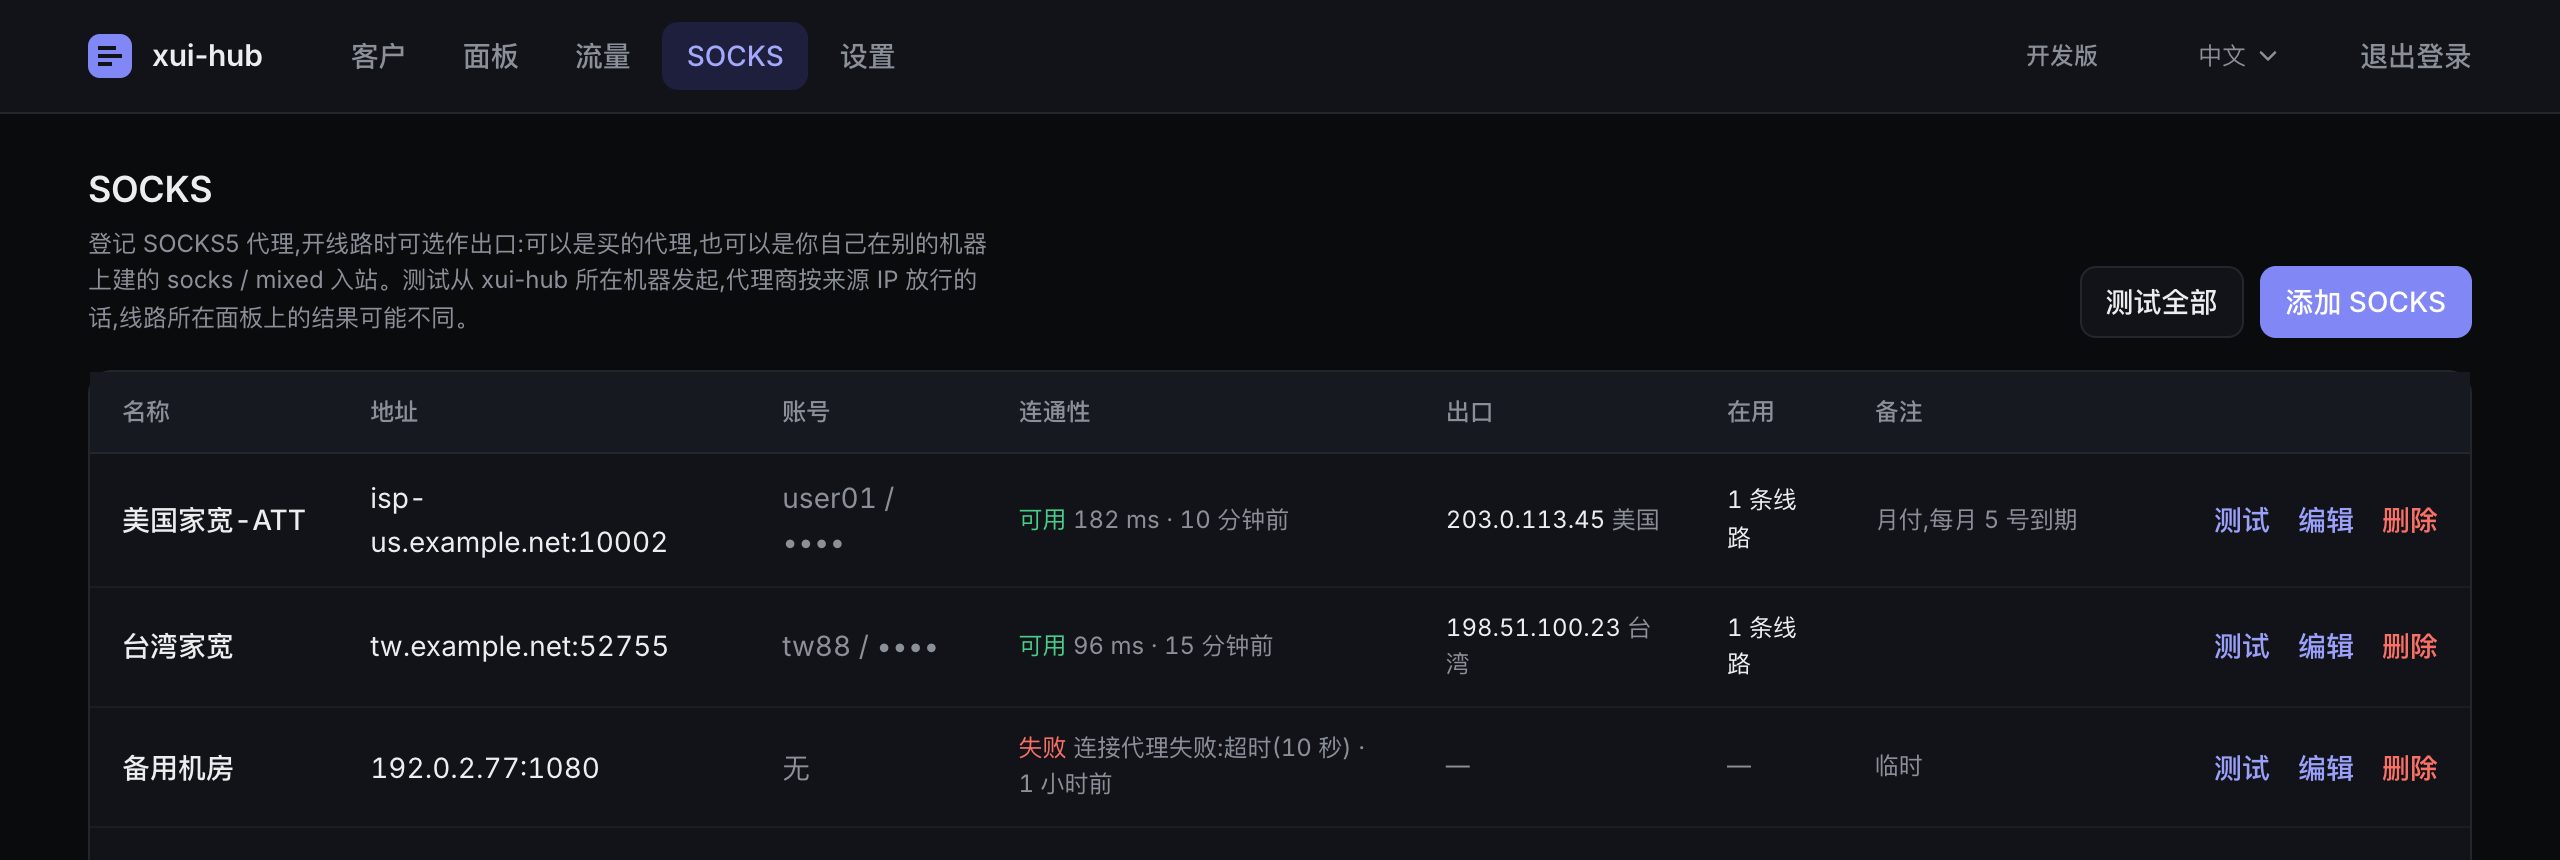
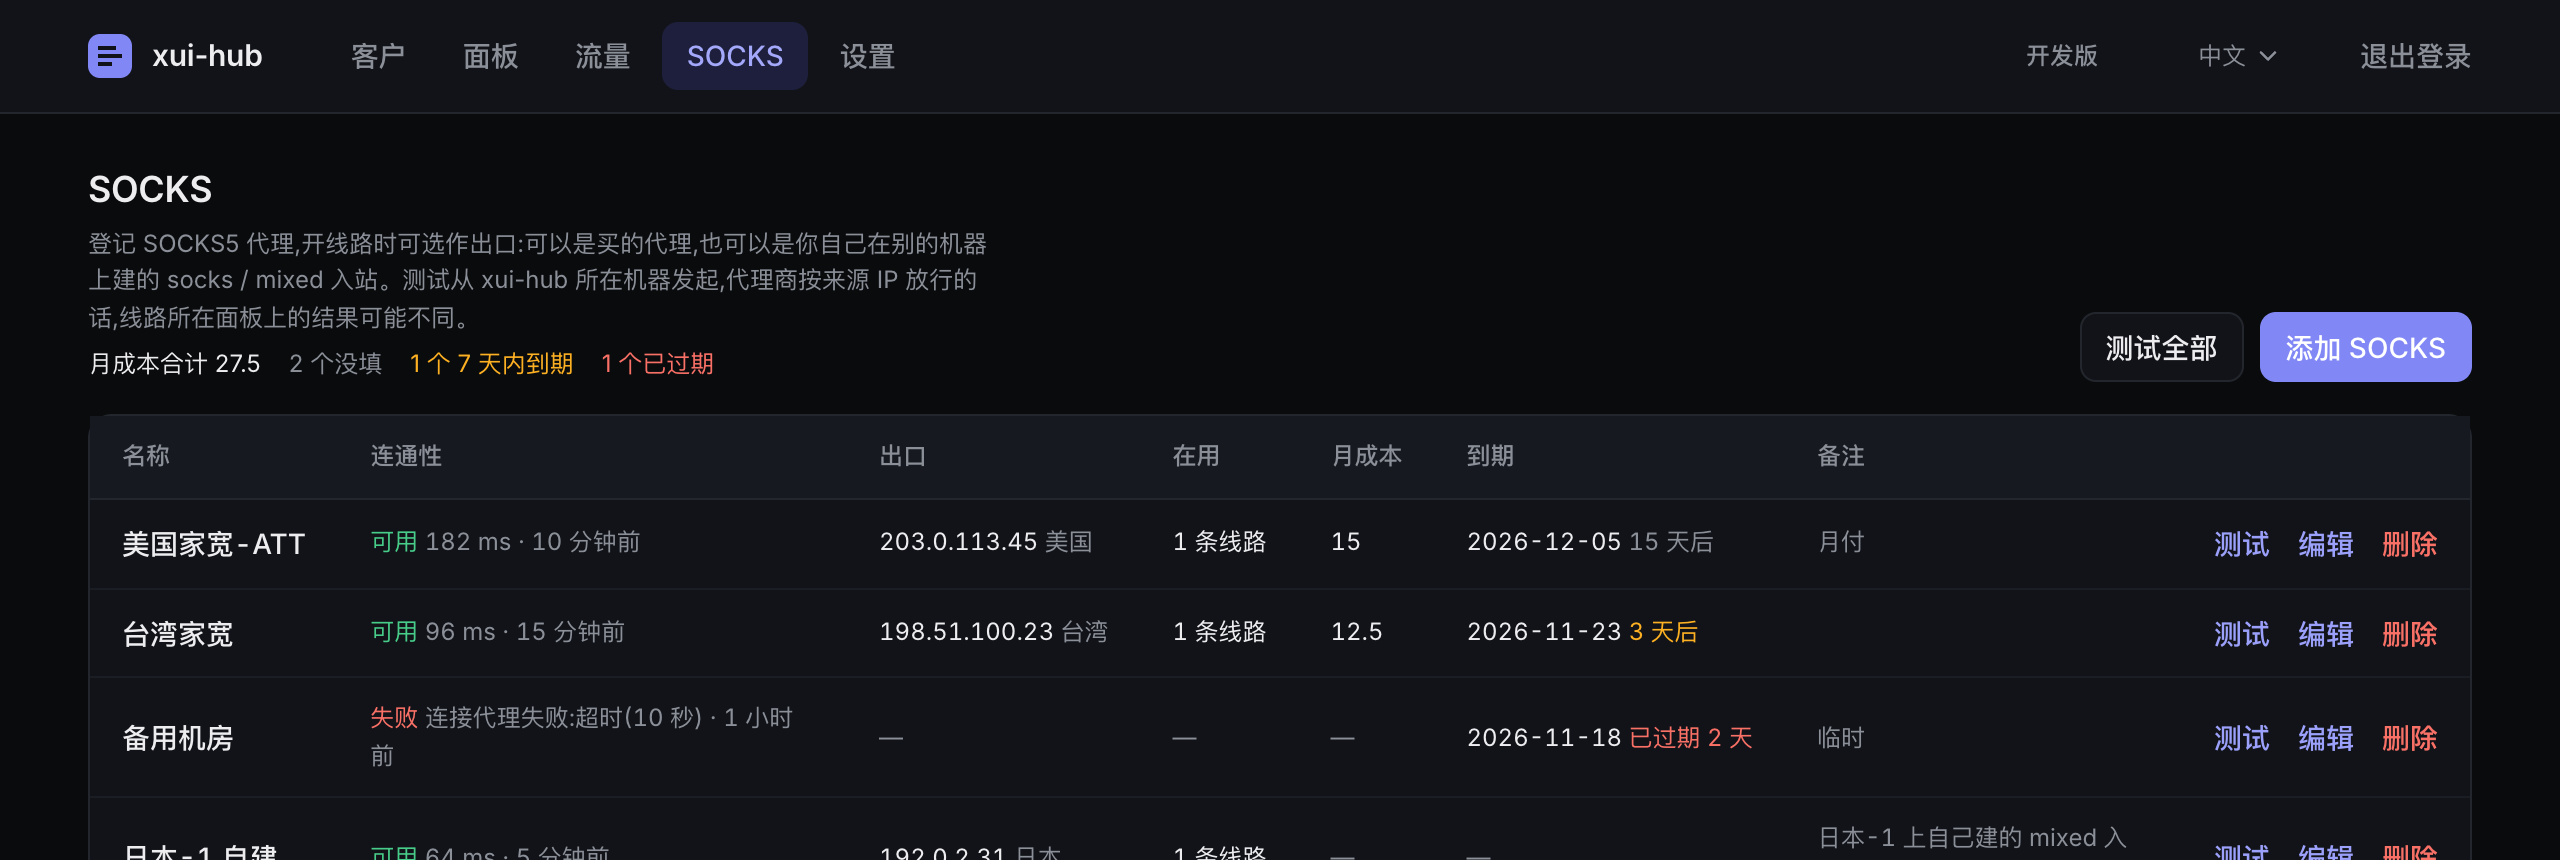
fix: SOCKS 列表去掉地址和账号两列
列表里留名称、连通性、出口、在用、月成本、到期、备注;地址放到名称的悬停提示里,编辑时标题上显示现在的地址。
出口、在用两列不换行。README 截图按新界面重截(演示数据补上月成本和到期)。

diff --git a/web/src/views/Socks.vue b/web/src/views/Socks.vue
@@ -121,8 +121,6 @@ async function remove(s: Socks) {
         <thead>
           <tr>
             <th>{{ t('socks.colName') }}</th>
-            <th>{{ t('socks.colAddress') }}</th>
-            <th>{{ t('socks.colAccount') }}</th>
             <th>{{ t('socks.colCheck') }}</th>
             <th>{{ t('socks.colExit') }}</th>
             <th>{{ t('socks.colUsed') }}</th>
@@ -134,20 +132,18 @@ async function remove(s: Socks) {
         </thead>
         <tbody>
           <tr v-for="s in list" :key="s.id">
-            <td class="name">{{ s.name }}</td>
-            <td class="mono">{{ s.host }}:{{ s.port }}</td>
-            <td class="muted">{{ s.username || t('socks.noAccount') }}<template v-if="s.has_password"> / ••••</template></td>
+            <td class="name" :title="`${s.host}:${s.port}`">{{ s.name }}</td>
             <td class="small">
               <template v-if="checking.has(s.id)"><span class="muted">{{ t('socks.testing') }}</span></template>
               <template v-else-if="!s.check"><span class="muted">{{ t('socks.neverTested') }}</span></template>
               <template v-else-if="s.check.ok"><span class="text-ok">{{ t('socks.ok') }}</span> <span class="muted">{{ s.check.ms }} ms · {{ fmtAgo(s.check.at) }}</span></template>
               <template v-else><span class="text-err" :title="s.check.error ?? ''">{{ t('socks.failed') }}</span> <span class="muted">{{ (s.check.error ?? '').slice(0, 40) }} · {{ fmtAgo(s.check.at) }}</span></template>
             </td>
-            <td class="small">
+            <td class="small nowrap">
               <template v-if="s.check?.ok">{{ s.check.ip }} <span class="muted">{{ region(s.check.loc) }}</span></template>
               <span v-else class="muted">—</span>
             </td>
-            <td class="small"><template v-if="s.used_by">{{ t('socks.usedBy', { n: s.used_by }, s.used_by) }}</template><span v-else class="muted">—</span></td>
+            <td class="small nowrap"><template v-if="s.used_by">{{ t('socks.usedBy', { n: s.used_by }, s.used_by) }}</template><span v-else class="muted">—</span></td>
             <td class="small mono"><template v-if="s.monthly_cost != null">{{ fmtCost(s.monthly_cost) }}</template><span v-else class="muted">—</span></td>
             <td class="small nowrap">
               <template v-if="s.expire_at">{{ fmtDate(s.expire_at) }} <span :class="dueClass(s.expire_at, 'muted')">{{ fmtDue(s.expire_at) }}</span></template>
@@ -172,7 +168,7 @@ async function remove(s: Socks) {
     <form id="socks-form" class="form" @submit.prevent="submit">
       <label class="field">{{ t('socks.name') }}<input v-model="form.name" required :placeholder="t('socks.namePlaceholder')" /></label>
       <label class="field">
-        {{ t('socks.address') }}{{ editing ? t('socks.keepBlank') : '' }}
+        {{ t('socks.address') }}{{ editing ? t('socks.keepBlankCurrent', { addr: `${editing.host}:${editing.port}` }) : '' }}
         <input v-model="form.address" :required="!editing" :placeholder="t('socks.addressPlaceholder')" autocomplete="off" />
       </label>
       <div class="two">

diff --git a/web/src/i18n/zh.ts b/web/src/i18n/zh.ts
@@ -163,13 +163,10 @@ export default {
     testing: '测试中…',
     add: '添加 SOCKS',
     colName: '名称',
-    colAddress: '地址',
-    colAccount: '账号',
     colCheck: '连通性',
     colExit: '出口',
     colUsed: '在用',
     colRemark: '备注',
-    noAccount: '无',
     neverTested: '没测过',
     ok: '可用',
     failed: '失败',
@@ -180,7 +177,7 @@ export default {
     name: '名称',
     namePlaceholder: '如 美国家宽-1',
     address: '地址',
-    keepBlank: '(留空不修改)',
+    keepBlankCurrent: '(留空不修改,现在是 {addr})',
     addressPlaceholder: "socks5://用户:密码{'@'}主机:端口 或 主机:端口:用户:密码",
     remark: '备注',
     remarkPlaceholder: '代理商之类',

diff --git a/web/src/i18n/en.ts b/web/src/i18n/en.ts
@@ -165,13 +165,10 @@ const en: Messages = {
     testing: 'Testing…',
     add: 'Add SOCKS',
     colName: 'Name',
-    colAddress: 'Address',
-    colAccount: 'Account',
     colCheck: 'Connectivity',
     colExit: 'Exit',
     colUsed: 'In use',
     colRemark: 'Note',
-    noAccount: 'none',
     neverTested: 'Not tested',
     ok: 'OK',
     failed: 'Failed',
@@ -182,7 +179,7 @@ const en: Messages = {
     name: 'Name',
     namePlaceholder: 'e.g. US-residential-1',
     address: 'Address',
-    keepBlank: ' (leave blank to keep)',
+    keepBlankCurrent: ' (leave blank to keep, currently {addr})',
     addressPlaceholder: "socks5://user:pass{'@'}host:port or host:port:user:pass",
     remark: 'Note',
     remarkPlaceholder: 'Provider, etc.',
